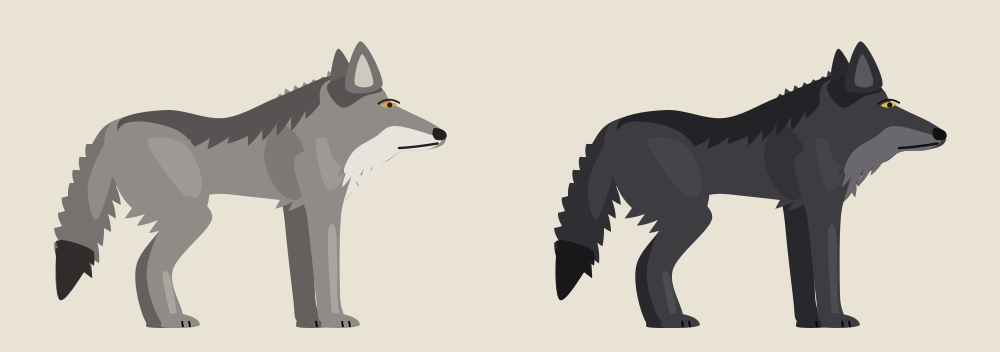
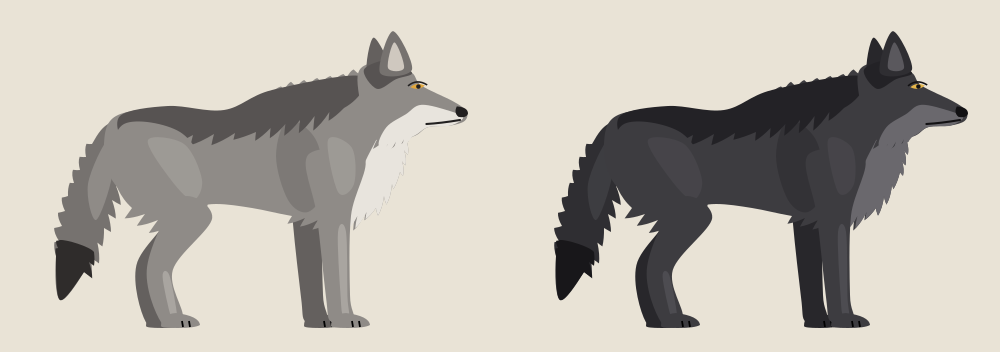
向量灰狼：頭再縮小、頸部與胸部加厚
Claude-Session: https://claude.ai/code/session_01HkqM82v9towmCBuEomSQC3

diff --git a/arts/art_vector_test_2026-10-13/gen_vector.py b/arts/art_vector_test_2026-10-13/gen_vector.py
@@ -119,7 +119,7 @@ def wolf(pal, pose=None, scale=1.0):
     L = lambda joints, widths, fill: path(outline(leg_shape(joints, widths)), fill)
     g = []
     # 遠側的腿（深色）
-    g.append(rot(q["fr"], 152, 88, L([(152, 86), (150, 112), (152, 148), (154, 160)], [22, 15, 11, 10.5], p["far"]) + paw_shape(156, 163, p["far"], 8)))
+    g.append(rot(q["fr"], 152, 88, L([(156, 86), (154, 112), (156, 148), (158, 160)], [22, 15, 11, 10.5], p["far"]) + paw_shape(160, 163, p["far"], 8)))
     g.append(rot(q["hr"], 82, 84, L([(80, 84), (94, 106), (74, 134), (78, 160)], [28, 18, 12, 10.5], p["far"]) + paw_shape(81, 163, p["far"], 8)))
     # 尾巴：蓬鬆下垂、兩側毛邊、尾尖深色
     tail_spec = [(62, 62), (60, 86), ("fur", 3, 4), (52, 114), ("fur", 3, 3), (42, 136), (30, 150),
@@ -129,15 +129,15 @@ def wolf(pal, pose=None, scale=1.0):
     tail += P([(54, 70), (56, 88), (48, 110), (44, 92)], p["light"], extra='opacity="0.5"')
     g.append(rot(q["tail"], 60, 66, tail))
     # 身體＋頸：背線平、胸深、腰收；頸背、胸前、腹下有毛邊
-    body = [(58, 60), (84, 56), (112, 60), (138, 50), ("fur", 3, 8), (172, 36),
-            (186, 64), ("fur", 5, 6), (176, 96), ("fur", 4, 4), (160, 102), ("fur", 3, 3), (140, 100),
-            (122, 98), (108, 97), (92, 100), (72, 102), (56, 88), (52, 72)]
+    body = [(58, 58), (84, 54), (112, 56), (136, 46), ("fur", 3, 8), (186, 36),
+            (204, 64), ("fur", 4, 4), (200, 86), ("fur", 4, 3), (188, 104), ("fur", 4, 3), (172, 112), ("fur", 3, 4), (146, 108),
+            (126, 104), (108, 102), (92, 104), (72, 104), (56, 90), (52, 72)]
     g.append(P(body, p["base"], (-0.6, 0.3)))
     # 肩後的陰影面、背上的深色鞍形毛（下緣是毛邊）
-    g.append(P([(138, 62), (150, 70), (154, 90), (148, 100), (138, 94), (132, 78)], p["shade"], extra='opacity="0.7"'))
-    g.append(P([(60, 60), (84, 55), (112, 59), (138, 49), (166, 38), (160, 52), ("fur", 4, 5), (124, 68), ("fur", 3, 4), (86, 70), (64, 74)], p["saddle"], (-0.4, 0.5)))
+    g.append(P([(144, 60), (158, 70), (162, 94), (154, 106), (144, 100), (138, 78)], p["shade"], extra='opacity="0.7"'))
+    g.append(P([(60, 58), (84, 53), (112, 55), (136, 45), (180, 38), (172, 54), ("fur", 4, 6), (128, 66), ("fur", 3, 4), (86, 68), (64, 72)], p["saddle"], (-0.4, 0.5)))
     # 胸前與喉嚨的淺色毛
-    g.append(P([(180, 66), (186, 66), ("fur", 5, 5), (176, 96), ("fur", 4, 3), (162, 102), (166, 88), (172, 74)], p["cream"], (-0.6, 0.3)))
+    g.append(P([(194, 62), (204, 64), ("fur", 4, 4), (200, 86), ("fur", 4, 3), (188, 104), ("fur", 4, 3), (174, 110), (178, 92), (186, 74)], p["cream"], (-0.6, 0.3)))
     # 近側後腿：厚實的大腿，後緣是「褲腳」毛邊
     thigh = [(62, 62), (90, 66), (104, 88), (102, 108), (92, 116), ("fur", 4, 4), (66, 104), (56, 84)]
     hl = (P(thigh, p["base"], (-0.5, 0.4))
@@ -147,10 +147,10 @@ def wolf(pal, pose=None, scale=1.0):
           + paw_shape(89, 163, p["base"], 8.5))
     g.append(rot(q["hl"], 84, 84, hl))
     # 近側前腿：肩胛、上臂粗、腕部細，前緣有一道亮面
-    fl = (L([(162, 78), (162, 108), (164, 148), (166, 160)], [28, 17, 12, 11], p["base"])
-          + P([(158, 70), (170, 74), (171, 90), (163, 94)], p["light"], extra='opacity="0.55"')
-          + path(outline(leg_shape([(166, 116), (167, 148), (168, 158)], [4, 3.5, 3])), p["light"])
-          + paw_shape(169, 163, p["base"], 8.5))
+    fl = (L([(168, 78), (167, 108), (169, 148), (171, 160)], [28, 17, 12, 11], p["base"])
+          + P([(164, 70), (176, 74), (177, 92), (169, 96)], p["light"], extra='opacity="0.55"')
+          + path(outline(leg_shape([(171, 116), (172, 148), (173, 158)], [4, 3.5, 3])), p["light"])
+          + paw_shape(174, 163, p["base"], 8.5))
     g.append(rot(q["fl"], 162, 80, fl))
     # 頭：額頭到口鼻收細、鼻樑長；臉頰毛往後下方翹；耳朵大
     hx, hy = 178, 60
@@ -171,7 +171,7 @@ def wolf(pal, pose=None, scale=1.0):
             + f'<path d="M197.5 44.2 Q203 39.5 209.5 43.6" stroke="{p["nose"]}" stroke-width="1" fill="none"/>'
             + f'<path d="M228 57 Q235 57.5 235 61.5 Q234 64.5 229 63.5 Q226 61 228 57 Z" fill="{p["nose"]}"/>'
             + f'<path d="M209 68 Q218 67.5 230 65.5" stroke="{p["nose"]}" stroke-width="1.3" fill="none" stroke-linecap="round"/>')
-    g.append(f'<g transform="translate(-8 7) translate(190 56) scale(0.92) translate(-190 -56)">' + rot(q["head"], hx, hy, head) + '</g>')
+    g.append(f'<g transform="translate(12 -2) translate(170 48) scale(0.8) translate(-170 -48)">' + rot(q["head"], hx, hy, head) + '</g>')
     inner = "".join(g)
     return f'<g transform="scale({scale})">{inner}</g>'
 
